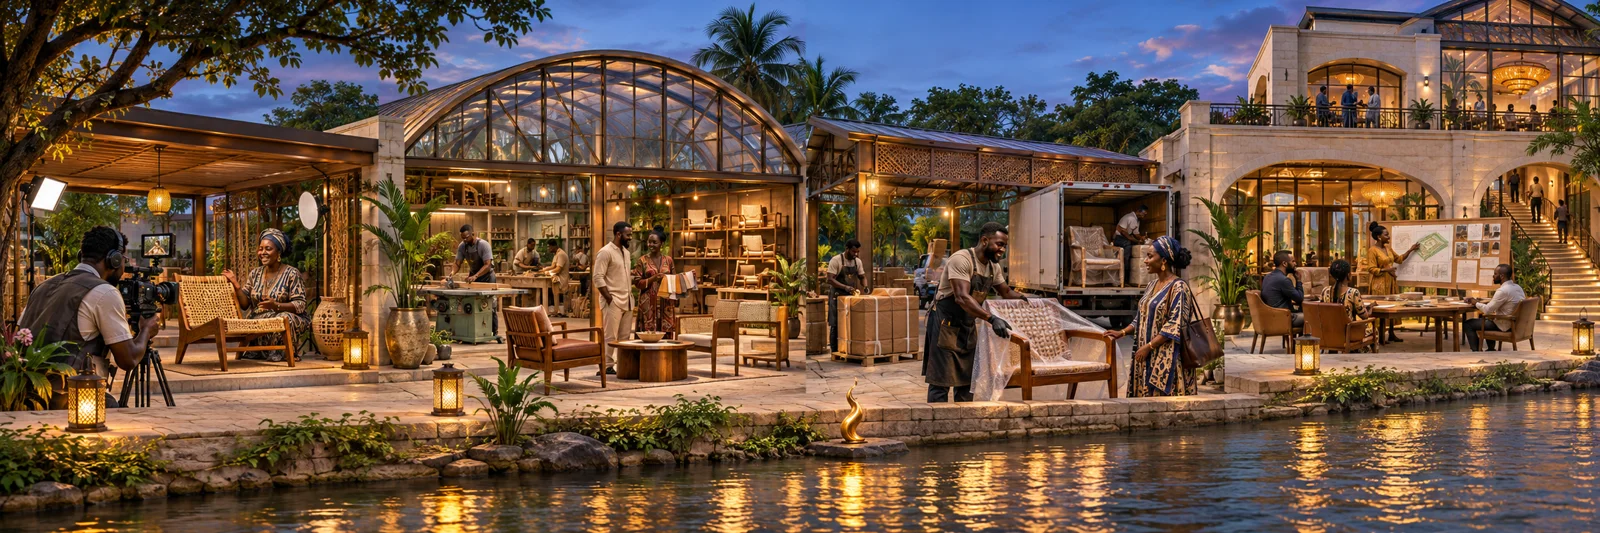
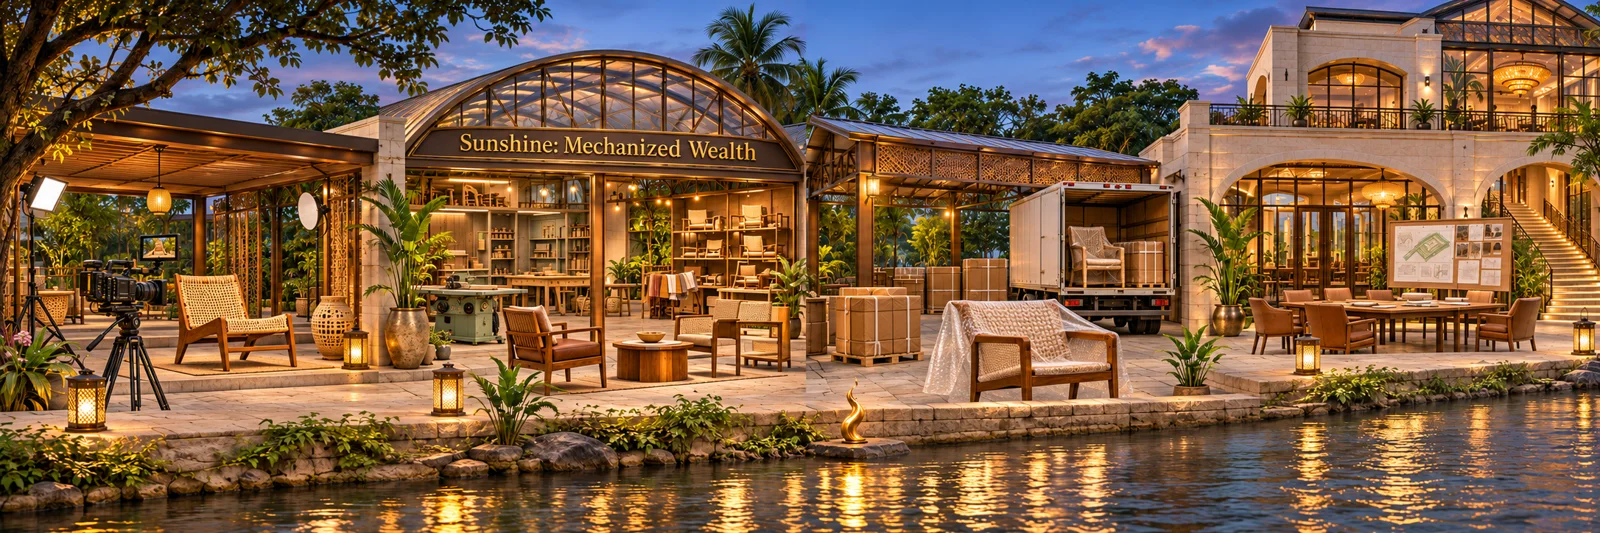
Show Sunshine on the unoccupied Burning River grounds

diff --git a/components/events/riverfront.tsx b/components/events/riverfront.tsx
@@ -31,7 +31,7 @@ export function Riverfront({role, children}:{role?:EventRole; children:ReactNode
     <div ref={viewport} className={styles.viewport}>
       <div className={styles.bank} role="group" aria-label="Explore the four department halls">
         <img src="/weave/flame-event/burning-river-riverfront.webp" width="1600" height="533"
-          alt="A Bridger films a maker, a Client welcomes a customer, an Agent prepares an order, and Administrations hosts a workshop along one riverbank."/>
+          alt="An empty Social Studio, a showroom signed Sunshine: Mechanized Wealth, a dispatch bay and a workshop beside the river."/>
         {positions.map(position => <button type="button" key={position} aria-pressed={selected === position}
           onClick={() => setChoice(position)}><span>{halls[position].name}</span></button>)}
       </div>
